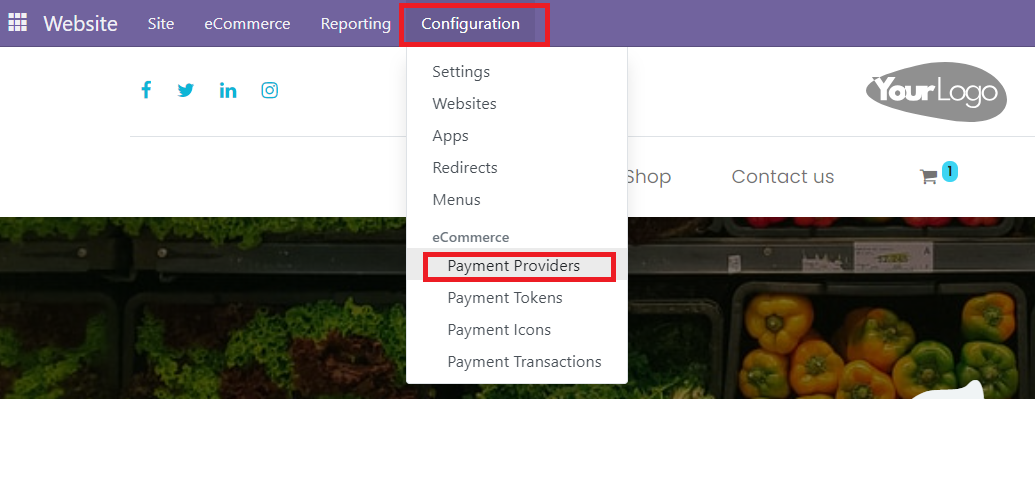
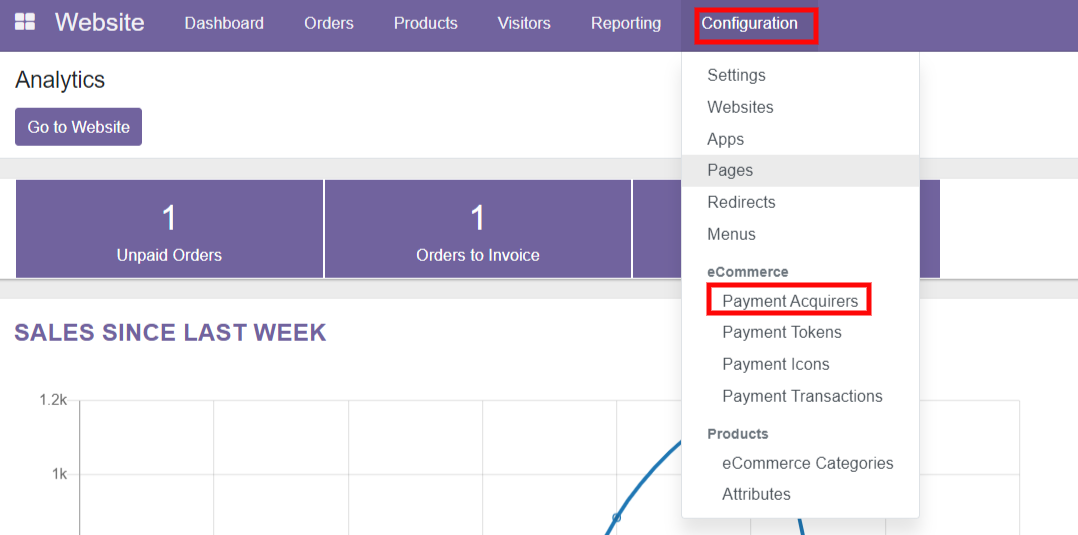
Odoo 15 Initial

diff --git a/payment_hitpay/static/description/index.html b/payment_hitpay/static/description/index.html
@@ -1,6 +1,6 @@
 <section class="oe_container">
     <div class="oe_row oe_spaced">
-        <h2 class="oe_slogan" style="color:#875A7B;">E-Commerce HitPay Payment Gateway Payment Provider</h2>
+        <h2 class="oe_slogan" style="color:#875A7B;">E-Commerce HitPay Payment Gateway Payment Acquirer</h2>
         <h3 class="oe_slogan">HitPay Payment Gateway Plugin allows merchants to accept PayNow QR, Cards, Apple Pay, Google Pay, WeChatPay, AliPay and GrabPay Payments</h3>
     </div>
 </section>
@@ -14,7 +14,7 @@
 					<i class="fa fa-circle" style="font-size:15px; color:#113246; padding-right:9px"></i><span style="padding-bottom:3px">Navigate to the Website and click on the Configuration menu.</span>
 				</li>
 				<li class="d-flex align-items-baseline mb-2">
-					<i class="fa fa-circle" style="font-size:15px; color:#113246; padding-right:9px"></i><span style="padding-bottom:3px">Now click on the submenu of Payment Providers and open HitPay Payment Gateway Payment method.</span>
+					<i class="fa fa-circle" style="font-size:15px; color:#113246; padding-right:9px"></i><span style="padding-bottom:3px">Now click on the submenu of Payment Acquirers and open HitPay Payment Gateway Payment method.</span>
 				</li>
 				<li class="d-flex align-items-baseline mb-2">
 					<i class="fa fa-circle" style="font-size:15px; color:#113246; padding-right:9px"></i><span style="padding-bottom:3px">Enter credentials for HitPay Payment Gateway Payment method.</span>
@@ -102,7 +102,7 @@
         <div class="oe_span12 text-justify oe_mt32">
             <ul class="list-unstyled" style="font-size:17px; border-radius:9px; padding-top:4px">
 				<li class="d-flex align-items-baseline mb-2">
-					<i class="fa fa-circle" style="font-size:15px; color:#113246; padding-right:9px"></i><span style="padding-bottom:3px">In the payment transaction, click the payment link eg: PBNK1/2023/00004.</span>
+					<i class="fa fa-circle" style="font-size:15px; color:#113246; padding-right:9px"></i><span style="padding-bottom:3px">In the payment transaction, click the payment link eg: BNK1/2023/00004.</span>
 				</li>
 				<li class="d-flex align-items-baseline mb-2">
 					<i class="fa fa-circle" style="font-size:15px; color:#113246; padding-right:9px"></i><span style="padding-bottom:3px">You see the below screen and click the 'Refund' button and enter the amount to refund.</span>

diff --git a/payment_hitpay/models/payment_transaction.py b/payment_hitpay/models/payment_transaction.py
@@ -40,14 +40,14 @@ class PaymentTransaction(models.Model):
         :rtype: dict
         """
         res = super()._get_specific_rendering_values(processing_values)
-        if self.provider_code != 'hitpay':
+        if self.provider != 'hitpay':
             return res
 
         # Initiate the payment and retrieve the payment link data.
         payload = self._hitpay_prepare_preference_request_payload()
 
         
-        payment_response = self.provider_id._hitpay_make_request(
+        payment_response = self.acquirer_id._hitpay_make_request(
             '/payment-requests', payload=payload
         )
         
@@ -68,13 +68,15 @@ class PaymentTransaction(models.Model):
         :return: The request payload.
         :rtype: dict
         """
-        base_url = self.provider_id.get_base_url()
+        base_url = self.acquirer_id.get_base_url()
         return_url = urls.url_join(
             base_url, f'{HitpayController._return_url}'
         )
         webhook_url = urls.url_join(
             base_url, f'{HitpayController._webhook_url}/{self.reference}'
-        )  # Append the reference to identify the transaction from the webhook notification data.
+        )  # Append the reference to identify the transaction from the webhook data.
+        
+        webhook_url = 'https://95ce-2402-3a80-41d-f968-99f8-94fa-8e32-a4c5.ngrok-free.app'
 
         return {
             'reference_number': self.reference,
@@ -87,58 +89,58 @@ class PaymentTransaction(models.Model):
             'channel': 'api_odoo'
         }
 
-    def _get_tx_from_notification_data(self, provider_code, notification_data):
+    def _get_tx_from_feedback_data(self, provider, data):
         """ Override of `payment` to find the transaction based on Hitpay data.
 
-        :param str provider_code: The code of the provider that handled the transaction.
-        :param dict notification_data: The notification data sent by the provider.
+        :param str provider: The provider of the acquirer that handled the transaction
+        :param dict data: The data sent by the provider.
         :return: The transaction if found.
         :rtype: recordset of `payment.transaction`
         :raise ValidationError: If inconsistent data were received.
         :raise ValidationError: If the data match no transaction.
         """
-        tx = super()._get_tx_from_notification_data(provider_code, notification_data)
-        if provider_code != 'hitpay' or len(tx) == 1:
+        tx = super()._get_tx_from_feedback_data(provider, data)
+        if provider != 'hitpay' or len(tx) == 1:
             return tx
 
-        reference = notification_data.get('reference_number')
+        reference = data.get('reference_number')
         if not reference:
             raise ValidationError("Hitpay: " + _("Received data with missing reference."))
 
-        tx = self.search([('reference', '=', reference), ('provider_code', '=', 'hitpay')])
+        tx = self.search([('reference', '=', reference), ('provider', '=', 'hitpay')])
         if not tx:
             raise ValidationError(
                 "Hitpay: " + _("No transaction found matching reference %s.", reference)
             )
         return tx
 
-    def _process_notification_data(self, notification_data):
+    def _process_feedback_data(self, data):
         """ Override of `payment` to process the transaction based on Hitpay data.
 
-        Note: self.ensure_one() from `_process_notification_data`
+        Note: self.ensure_one() from `_process_feedback_data`
 
-        :param dict notification_data: The notification data sent by the provider.
+        :param dict data: The data sent by the provider.
         :return: None
         :raise ValidationError: If inconsistent data were received.
         """
-        super()._process_notification_data(notification_data)
-        if self.provider_code != 'hitpay':
+        super()._process_feedback_data(data)
+        if self.provider != 'hitpay':
             return
 
-        payment_id = notification_data.get('payment_id')
+        payment_id = data.get('payment_id')
         if not payment_id:
             raise ValidationError("Hitpay: " + _("Received data with missing payment id."))
         
         self.hitpay_payment_id = payment_id
         self.hitpay_transaction_id = payment_id
-        self.hitpay_payment_status = notification_data.get('status')
-        self.hitpay_payment_amount = notification_data.get('amount')
-        self.hitpay_payment_currency = notification_data.get('currency')
-        self.provider_reference = payment_id
+        self.hitpay_payment_status = data.get('status')
+        self.hitpay_payment_amount = data.get('amount')
+        self.hitpay_payment_currency = data.get('currency')
+        self.acquirer_reference = payment_id
         
-        reference_number = notification_data.get('reference_number')
+        reference_number = data.get('reference_number')
         
-        payment_status = notification_data.get('status')
+        payment_status = data.get('status')
 
         if not payment_status:
             raise ValidationError("Hitpay: " + _("Received data with missing status."))
@@ -161,7 +163,7 @@ class PaymentTransaction(models.Model):
                 "Hitpay: " + _("Received data with invalid status: %s", payment_status)
             )
 
-    def _send_refund_request(self, amount_to_refund=None):
+    def _send_refund_request(self, amount_to_refund=None, create_refund_transaction=True):
         """ Override of payment to send a refund request to Hitpay.
 
         Note: self.ensure_one()
@@ -172,9 +174,9 @@ class PaymentTransaction(models.Model):
         """
 
         self.ensure_one()
-        
-        refund_tx = super()._send_refund_request(amount_to_refund=amount_to_refund)
-        if self.provider_code != 'hitpay':
+
+        refund_tx = super()._send_refund_request(amount_to_refund=amount_to_refund, create_refund_transaction=create_refund_transaction)
+        if self.provider != 'hitpay':
             return refund_tx
 
         # Make the refund request to Hitpay
@@ -188,7 +190,7 @@ class PaymentTransaction(models.Model):
             'amount': amount_to_refund,
         }
         
-        response_content = refund_tx.provider_id._hitpay_make_request(
+        response_content = refund_tx.acquirer_id._hitpay_make_request(
             '/refund', payload=payload
         )
 
@@ -202,15 +204,14 @@ class PaymentTransaction(models.Model):
         self.hitpay_refund_createdat = response_content.get('created_at')
         self.hitpay_refund_amount = response_content.get('amount_refunded')
         self.hitpay_refund_currency = response_content.get('currency')
-
-        self.provider_reference = self.hitpay_refund_id
+        self.acquirer_reference = self.hitpay_refund_id
 
         message = "Refund successful. Refund Reference Id: "+self.hitpay_refund_id+", "
         message += "Payment Id: "+self.hitpay_payment_id+", "
         message += "Amount Refunded: "+self.hitpay_refund_amount+", "
         message += "Payment Method: "+response_content.get('payment_method')+", "
         message += "Created At: "+ self.hitpay_refund_createdat
-
+        
         self._set_done()
         self.env.ref('payment.cron_post_process_payment_tx')._trigger()
 

diff --git a/payment_hitpay/controllers/main.py b/payment_hitpay/controllers/main.py
@@ -48,13 +48,13 @@ class HitpayController(http.Controller):
         # Handle the notification data.
         try:
             # Check the integrity of the notification data.
-            tx_sudo = request.env['payment.transaction'].sudo()._get_tx_from_notification_data(
+            tx_sudo = request.env['payment.transaction'].sudo()._get_tx_from_feedback_data(
                 'hitpay', data
             )
 
             self._verify_notification_signature(data, tx_sudo)
 
-            tx_sudo._handle_notification_data('hitpay', data)
+            tx_sudo._handle_feedback_data('hitpay', data)
 
         except ValidationError:  # Acknowledge the notification to avoid getting spammed.
             _logger.exception("Unable to handle the Hitpay  notification data; skipping to acknowledge")
@@ -77,7 +77,7 @@ class HitpayController(http.Controller):
             raise Forbidden()
 
         # Compare the received signature with the expected signature computed from the data.
-        expected_signature = tx_sudo.provider_id._hitpay_calculate_signature(
+        expected_signature = tx_sudo.acquirer_id._hitpay_calculate_signature(
             notification_data
         )
         if not hmac.compare_digest(received_signature, expected_signature):

diff --git a/payment_hitpay/models/payment_acquirer.py b/payment_hitpay/models/payment_acquirer.py
@@ -17,10 +17,10 @@ from odoo.exceptions import ValidationError
 _logger = logging.getLogger(__name__)
 
 
-class Paymentprovider(models.Model):
-    _inherit = 'payment.provider'
+class PaymentAcquirer(models.Model):
+    _inherit = 'payment.acquirer'
 
-    code = fields.Selection(
+    provider = fields.Selection(
         selection_add=[('hitpay', "HitPay Payment Gateway")], ondelete={'hitpay': 'set default'}
     )
 
@@ -42,9 +42,15 @@ class Paymentprovider(models.Model):
     def _compute_feature_support_fields(self):
         """ Override of `payment` to enable additional features. """
         super()._compute_feature_support_fields()
-        self.filtered(lambda p: p.code == 'hitpay').update({
+        self.filtered(lambda p: p.provider == 'hitpay').update({
             'support_refund': 'partial',
         })    
+        
+    def _get_default_payment_method_id(self):
+        self.ensure_one()
+        if self.provider != 'hitpay':
+            return super()._get_default_payment_method_id()
+        return self.env.ref('payment_hitpay.payment_method_hitpay').id
     
     def _hitpay_make_request(self, endpoint, payload=None, method='POST'):
         """ Make a request to HitPay API at the specified endpoint.

diff --git a/payment_hitpay/__manifest__.py b/payment_hitpay/__manifest__.py
@@ -1,7 +1,7 @@
 {
     'name': "HitPay Payment Gateway",
     'version': '1.0',
-    'category': 'Accounting/Payment Providers',
+    'category': 'Accounting/Payment Acquirers',
     'sequence': 350,
     'summary': "HitPay Payment Gateway Plugin allows merchants to accept PayNow QR, Cards, Apple Pay, Google Pay, WeChatPay, AliPay and GrabPay Payments.",
     'author': 'HitPay Payment Solutions Pte Ltd',
@@ -9,14 +9,13 @@
     'depends': ['payment'],
     'data': [
         'views/payment_hitpay_templates.xml',
-        'views/payment_provider_views.xml',
+        'views/payment_views.xml',
 		'data/payment_icon_data.xml',
-        'data/payment_provider_data.xml',
+        'data/payment_acquirer_data.xml',
     ],
-    'images': ['images/main_screenshot.png'],
+    'images': ['static/description/logo.png'],
     'application': True,
     'installable': True,
-    'post_init_hook': 'post_init_hook',
     'uninstall_hook': 'uninstall_hook',
     'license': 'LGPL-3',
 }

diff --git a/payment_hitpay/__init__.py b/payment_hitpay/__init__.py
@@ -1,12 +1,7 @@
 from . import controllers
 from . import models
 
-from odoo.addons.payment import setup_provider, reset_payment_provider
-
-
-def post_init_hook(cr, registry):
-    setup_provider(cr, registry, 'hitpay')
-
+from odoo.addons.payment import reset_payment_acquirer
 
 def uninstall_hook(cr, registry):
-    reset_payment_provider(cr, registry, 'hitpay')
+    reset_payment_acquirer(cr, registry, 'hitpay')

diff --git a/payment_hitpay/models/__init__.py b/payment_hitpay/models/__init__.py
@@ -1,3 +1,3 @@
 from . import account_payment_method
-from . import payment_provider
+from . import payment_acquirer
 from . import payment_transaction

diff --git a/payment_hitpay/images/README.rst b/payment_hitpay/images/README.rst
@@ -28,7 +28,7 @@ Then, youcan choose  one of these instructions:
 .. image:: images/2-Click-Update-App-List.png
 
 In your Odoo administrator interface, browse to "Applications" tab, delete "Applications" filter from
-search field and search for "hitpay" keyword. Click "Install" (or "Upgrade") button of the "HitPay Payment Gateway Provider" module.
+search field and search for "hitpay" keyword. Click "Install" (or "Upgrade") button of the "HitPay Payment Gateway Acquirer" module.
 
 .. image:: images/3-Locate-HitPay-App-Click-Activate-Button-To-Install-App.png
 
@@ -37,7 +37,7 @@ Configuration
 
 * Go to "Website Admin" tab
 .. image:: images/4-Website-Menu-Selection.png
-* In "Configuration" section, expand "eCommerce" menu than click on "Payment Providers" entry
+* In "Configuration" section, expand "eCommerce" menu than click on "Payment Acquirers" entry
 .. image:: images/5-Navigate-To-Payment-Providers.png
 * Select HitPay Payment Gateway module
 .. image:: images/6-Select-HitPay-Payment-Gateway.png
@@ -60,7 +60,7 @@ Payment Confirmation
 
 Sales Order
 ===========
-Navigate to eCommerce Orders => Orders
+Navigate to Orders => Orders
 
 .. image:: images/11-Sales-Order.png
 
@@ -72,7 +72,7 @@ Navigate to Configuration => eCommerce => Payment Transactions
 
 Refunds
 ===========================
-* In the payment transaction, click the payment link eg: PBNK1/2023/00004
+* In the payment transaction, click the payment link eg: BNK1/2023/00004
 * You see the below screen and click the 'Refund' button and enter the amount to refund.
 .. image:: images/14-Refund-Option.png
 .. image:: images/15-Refund-Form.png

diff --git a/payment_hitpay/README.rst b/payment_hitpay/README.rst
@@ -28,7 +28,7 @@ Then, youcan choose  one of these instructions:
 .. image:: images/2-Click-Update-App-List.png
 
 In your Odoo administrator interface, browse to "Applications" tab, delete "Applications" filter from
-search field and search for "hitpay" keyword. Click "Install" (or "Upgrade") button of the "HitPay Payment Gateway Provider" module.
+search field and search for "hitpay" keyword. Click "Install" (or "Upgrade") button of the "HitPay Payment Gateway Acquirer" module.
 
 .. image:: images/3-Locate-HitPay-App-Click-Activate-Button-To-Install-App.png
 
@@ -37,7 +37,7 @@ Configuration
 
 * Go to "Website Admin" tab
 .. image:: images/4-Website-Menu-Selection.png
-* In "Configuration" section, expand "eCommerce" menu than click on "Payment Providers" entry
+* In "Configuration" section, expand "eCommerce" menu than click on "Payment Acquirers" entry
 .. image:: images/5-Navigate-To-Payment-Providers.png
 * Select HitPay Payment Gateway module
 .. image:: images/6-Select-HitPay-Payment-Gateway.png
